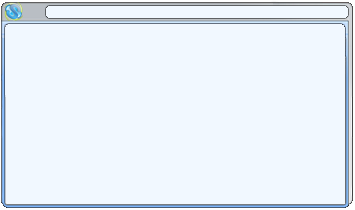
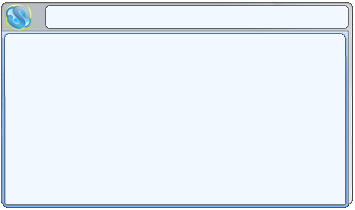
Commiting updates

Changed region(s): [[0.0, 0.0, 0.9915, 0.1714]]

diff --git a/SkypePopDialog.Designer.cs b/SkypePopDialog.Designer.cs
@@ -29,7 +29,6 @@
         private void InitializeComponent()
         {
             this.components = new System.ComponentModel.Container();
-            System.ComponentModel.ComponentResourceManager resources = new System.ComponentModel.ComponentResourceManager(typeof(SkypePopDialog));
             this.txtReceived = new System.Windows.Forms.RichTextBox();
             this.txtSend = new System.Windows.Forms.TextBox();
             this.cmbActiveChats = new System.Windows.Forms.ComboBox();
@@ -49,9 +48,9 @@
             // 
             this.txtReceived.BackColor = System.Drawing.Color.FromArgb(((int)(((byte)(229)))), ((int)(((byte)(236)))), ((int)(((byte)(243)))));
             this.txtReceived.BorderStyle = System.Windows.Forms.BorderStyle.None;
-            this.txtReceived.Location = new System.Drawing.Point(9, 28);
+            this.txtReceived.Location = new System.Drawing.Point(8, 35);
             this.txtReceived.Name = "txtReceived";
-            this.txtReceived.Size = new System.Drawing.Size(335, 141);
+            this.txtReceived.Size = new System.Drawing.Size(335, 138);
             this.txtReceived.TabIndex = 0;
             this.txtReceived.Text = "";
             // 
@@ -75,9 +74,9 @@
             this.cmbActiveChats.ForeColor = System.Drawing.Color.White;
             this.cmbActiveChats.FormattingEnabled = true;
             this.cmbActiveChats.IntegralHeight = false;
-            this.cmbActiveChats.Location = new System.Drawing.Point(30, 0);
+            this.cmbActiveChats.Location = new System.Drawing.Point(48, 4);
             this.cmbActiveChats.Name = "cmbActiveChats";
-            this.cmbActiveChats.Size = new System.Drawing.Size(301, 21);
+            this.cmbActiveChats.Size = new System.Drawing.Size(275, 21);
             this.cmbActiveChats.TabIndex = 2;
             this.cmbActiveChats.SelectedIndexChanged += new System.EventHandler(this.cmbActiveChats_SelectedIndexChanged);
             // 
@@ -99,7 +98,7 @@
             this.btnClose.BackgroundImage = global::SkypePop.Properties.Resources.exit;
             this.btnClose.BackgroundImageLayout = System.Windows.Forms.ImageLayout.Center;
             this.btnClose.Cursor = System.Windows.Forms.Cursors.Hand;
-            this.btnClose.Location = new System.Drawing.Point(333, 2);
+            this.btnClose.Location = new System.Drawing.Point(328, 6);
             this.btnClose.Name = "btnClose";
             this.btnClose.Size = new System.Drawing.Size(16, 16);
             this.btnClose.TabIndex = 4;
@@ -108,13 +107,12 @@
             // 
             // btnHide
             // 
-            this.btnHide.BackgroundImage = ((System.Drawing.Image)(resources.GetObject("btnHide.BackgroundImage")));
             this.btnHide.BackgroundImageLayout = System.Windows.Forms.ImageLayout.Center;
             this.btnHide.ContextMenuStrip = this.context;
             this.btnHide.Cursor = System.Windows.Forms.Cursors.Hand;
-            this.btnHide.Location = new System.Drawing.Point(4, 0);
+            this.btnHide.Location = new System.Drawing.Point(3, 3);
             this.btnHide.Name = "btnHide";
-            this.btnHide.Size = new System.Drawing.Size(15, 21);
+            this.btnHide.Size = new System.Drawing.Size(26, 21);
             this.btnHide.TabIndex = 3;
             this.btnHide.TabStop = false;
             this.btnHide.Click += new System.EventHandler(this.btnHide_Click);
